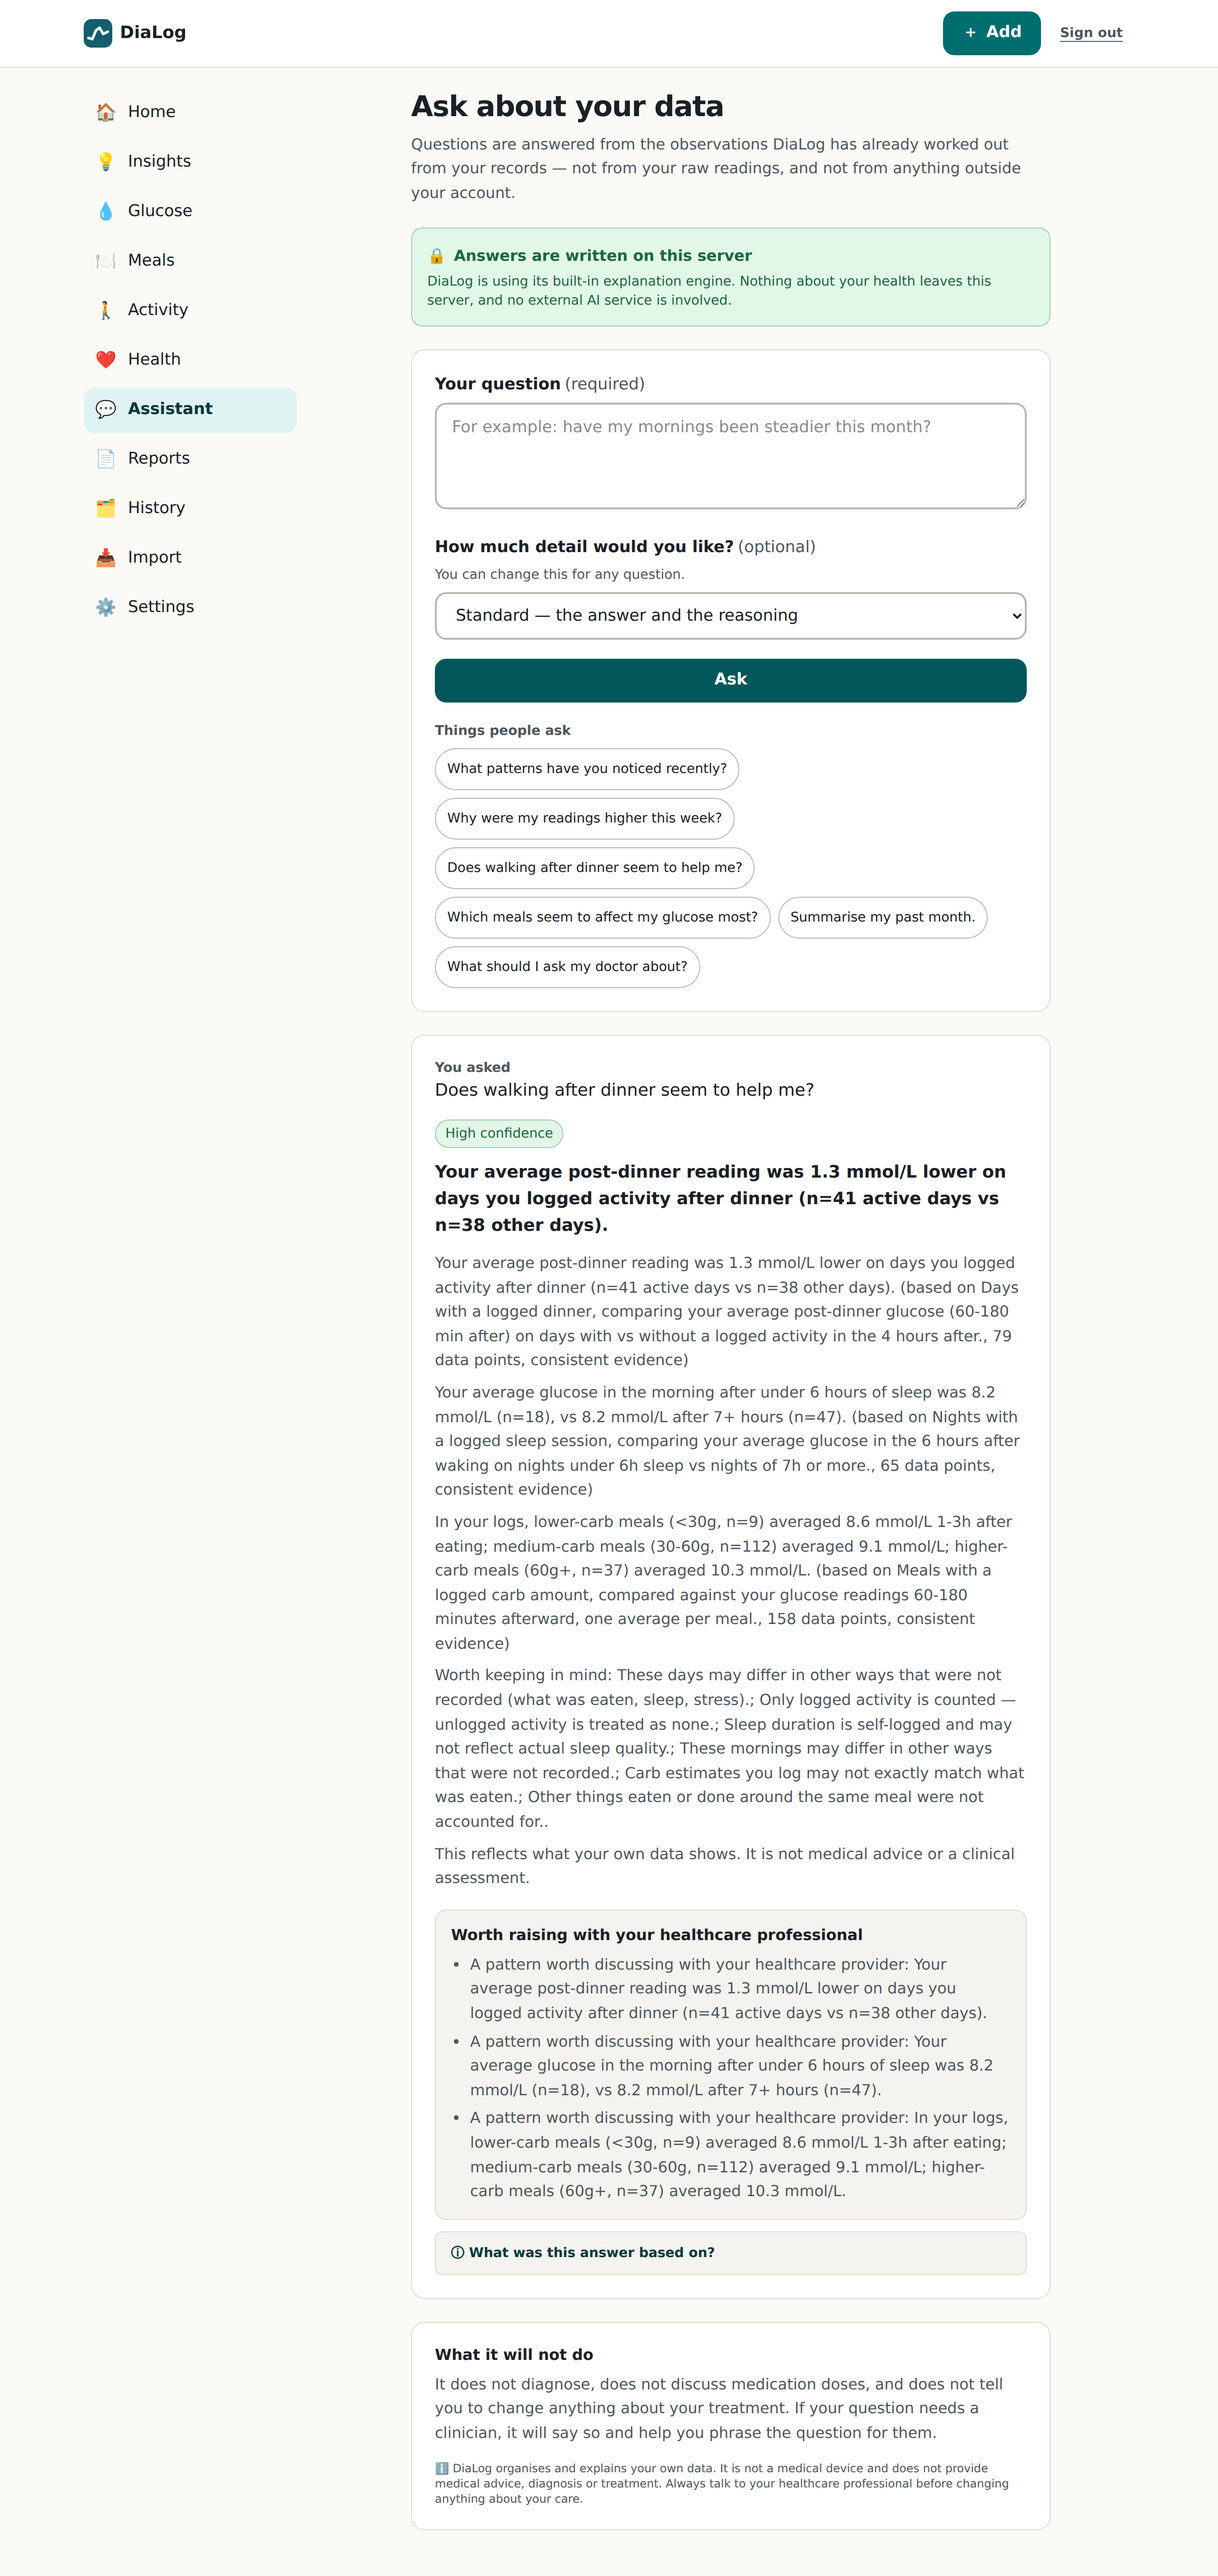
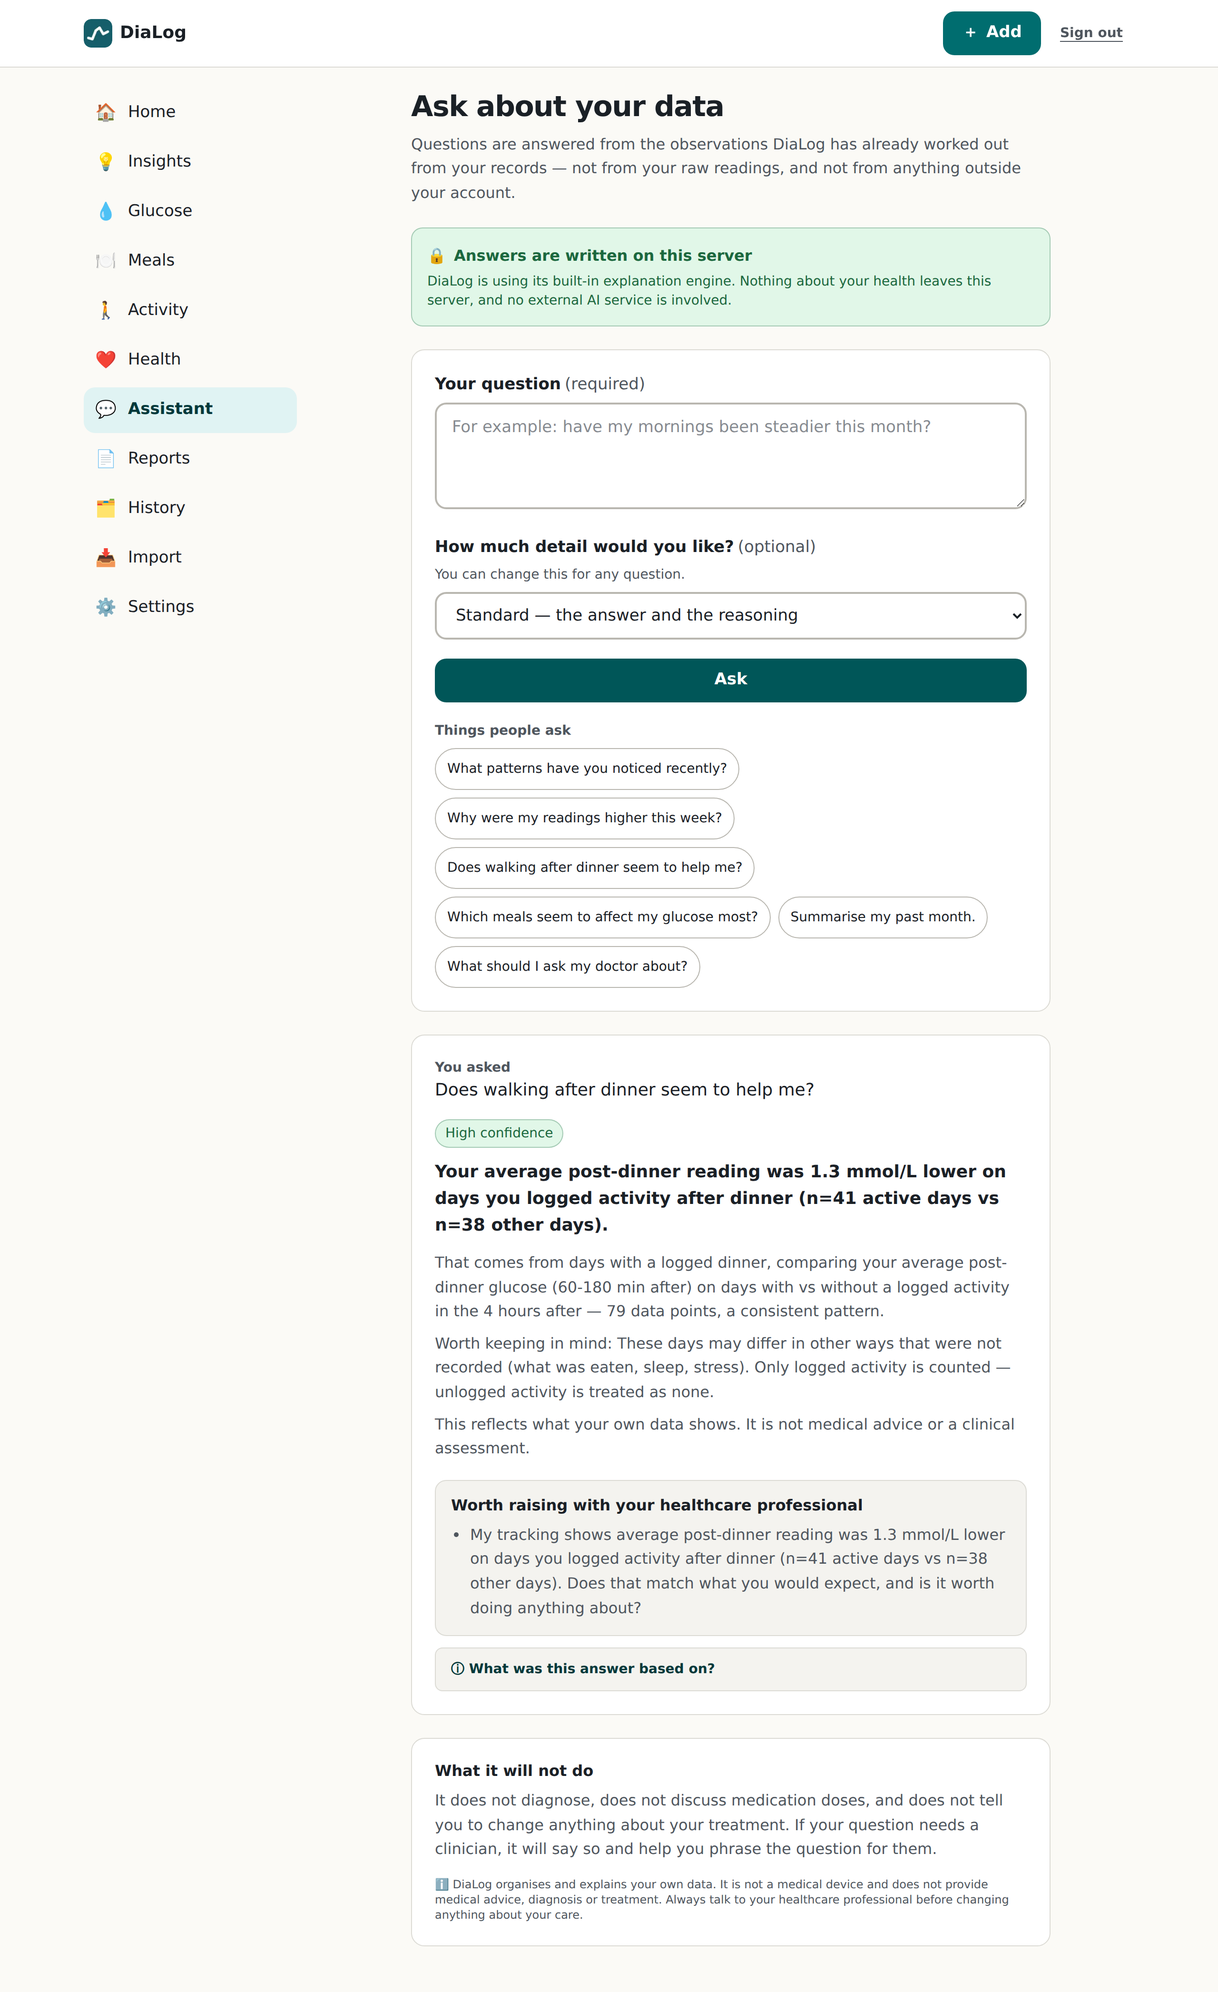
Improve the built-in assistant's answer quality
The local (no-network, default) provider padded answers with weakly related
findings, repeated its own headline, ran caveats together with semicolons, and
restated findings as clinician 'questions'. Now it keeps only findings close to
the best match, leads with the evidence behind the headline rather than
repeating it, renders caveats as separate sentences, and phrases clinician
prompts as something a person could actually say in an appointment.

Claude-Session: https://claude.ai/code/session_01UhuM3PPmXfVENNikC8wnH9

diff --git a/tests/e2e/accessibility.spec.ts b/tests/e2e/accessibility.spec.ts
@@ -72,13 +72,34 @@ async function assertHtmlLang(page: Page, label: string) {
 
 /** The skip link is off-screen until focused, and moves focus into <main>. */
 async function assertSkipLink(page: Page, label: string) {
-  // Some pages (e.g. the glucose entry form) autoFocus a field on load, which
-  // would otherwise make the first Tab move away from that field instead of
-  // landing on the skip link. Start from a known "nothing focused" state.
-  await page.evaluate(() => (document.activeElement as HTMLElement | null)?.blur());
-  await page.keyboard.press('Tab');
   const skipLink = page.locator('.dl-skip-link');
-  await expect(skipLink, `${label}: first Tab should reach the skip link`).toBeFocused();
+
+  // The skip link must be the first focusable element in the document, so a
+  // keyboard user starting from the very top of the page reaches it on the
+  // first Tab. Checked via DOM order rather than a literal simulated Tab
+  // press: some pages (e.g. the glucose entry form) legitimately autoFocus a
+  // field on load, and per the HTML focus-navigation spec that field — not
+  // the top of the document — becomes the "sequential focus navigation
+  // starting point" for Tab from then on, which would make a literal Tab
+  // press an unreliable way to test DOM order specifically.
+  const firstFocusableIsSkipLink = await page.evaluate(() => {
+    const candidates = Array.from(
+      document.querySelectorAll<HTMLElement>(
+        'a[href], button:not([disabled]), input:not([disabled]), select:not([disabled]), textarea:not([disabled]), [tabindex]',
+      ),
+    ).filter((el) => el.tabIndex !== -1);
+    return candidates[0]?.classList.contains('dl-skip-link') ?? false;
+  });
+  expect(
+    firstFocusableIsSkipLink,
+    `${label}: the skip link should be the first focusable element in the document`,
+  ).toBe(true);
+
+  // Focus it directly (equivalent to what Shift+Tab from anywhere past it, or
+  // Tab from a page with nothing pre-focused, would do) and confirm it comes
+  // on-screen while focused.
+  await skipLink.focus();
+  await expect(skipLink, `${label}: the skip link should be focusable`).toBeFocused();
 
   const box = await skipLink.boundingBox();
   expect(box, `${label}: focused skip link should have a visible position`).not.toBeNull();

diff --git a/tests/e2e/logging.spec.ts b/tests/e2e/logging.spec.ts
@@ -77,7 +77,9 @@ test.describe('logging records', () => {
     // <summary> exposes an ARIA role of "DisclosureTriangle" in Chromium, not
     // "button", so it is targeted by its visible text rather than by role.
     await row.locator('summary').filter({ hasText: 'Delete' }).click();
-    await expect(page.getByText('Delete this record? This cannot be undone.')).toBeVisible();
+    // Scoped to this row: every row carries its own (usually-hidden) confirm
+    // text, so matching page-wide could resolve to more than one row's copy.
+    await expect(row.getByText('Delete this record? This cannot be undone.')).toBeVisible();
     await expect(row).toBeVisible();
 
     await page.getByRole('button', { name: 'Yes, delete' }).click();

diff --git a/tests/e2e/assistant.spec.ts b/tests/e2e/assistant.spec.ts
@@ -9,6 +9,7 @@ test.describe('assistant', () => {
       page,
     }) => {
       await page.goto('/app/assistant');
+      await page.waitForLoadState('networkidle');
 
       // A custom question, not one of the pre-set suggestion pills, so the
       // echoed question text below doesn't collide with a suggestion button
@@ -35,6 +36,7 @@ test.describe('assistant', () => {
 
     test('says there is not enough data rather than inventing an answer', async ({ page }) => {
       await page.goto('/app/assistant');
+      await page.waitForLoadState('networkidle');
 
       await page.getByLabel('Your question').fill('Why were my readings higher this week?');
       await page.getByRole('button', { name: 'Ask', exact: true }).click();
